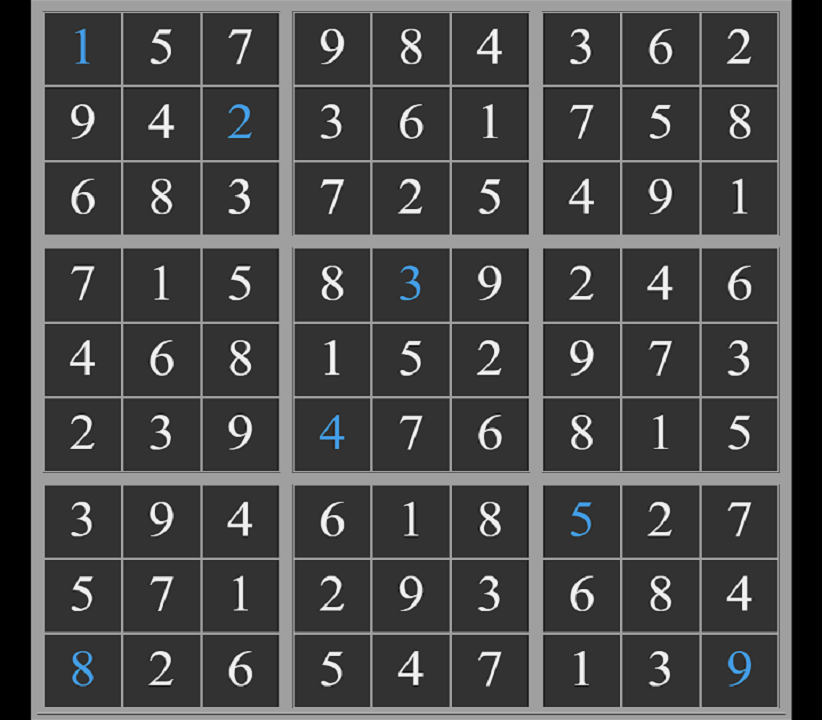
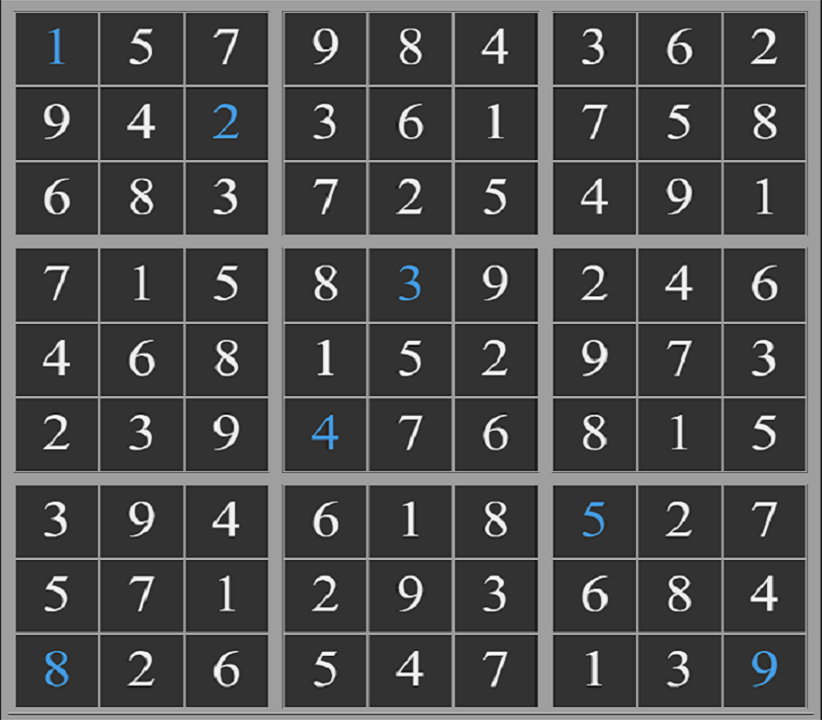
updated grid

diff --git a/index.html b/index.html
@@ -26,53 +26,53 @@
 			<div class="grid_item" tabindex="0">
 				<h1 class="grid_item_title">The Pentagram of Venus</h1>
 				<img class="thumbnail" src="assets/pentagram.png" alt="Responsive image">
-				<button class="button deployButton" type="button"><a href="https://robaina.github.io/VenusPentagram/">Deploy</a></button>
-				<button class="button codeButton" type="button"><a href="https://github.com/Robaina/VenusPentagram">Code</a></button>
+				<button class="button deployButton" type="button"><a class="grid_link" href="https://robaina.github.io/VenusPentagram/">Deploy</a></button>
+				<button class="button codeButton" type="button"><a class="grid_link" href="https://github.com/Robaina/VenusPentagram">Code</a></button>
 			</div>
 			<div class="grid_item" tabindex="0">
 				<h1 class="grid_item_title">Sudoku solver</h1>
 				<img class="thumbnail" src="assets/sudoku.png" alt="Responsive image">
-				<button class="button deployButton" type="button"><a href="https://robaina.github.io/Sudoku/">Deploy</a></button>
-				<button class="button codeButton" type="button"><a href="https://github.com/Robaina/Sudoku">Code</a></button>
+				<button class="button deployButton" type="button"><a class="grid_link" href="https://robaina.github.io/Sudoku/">Deploy</a></button>
+				<button class="button codeButton" type="button"><a class="grid_link" href="https://github.com/Robaina/Sudoku">Code</a></button>
 			</div>
 			<div class="grid_item" tabindex="0">
 				<h1 class="grid_item_title">Metabolic flux orders</h1>
 				<img class="thumbnail" src="assets/fluxorders.png" alt="Responsive image">
-				<button class="button deployButton" type="button"><a href="https://robaina.github.io/fluxOrders/">Deploy</a></button>
-				<button class="button codeButton" type="button"><a href="https://github.com/Robaina/fluxOrders">Code</a></button>
+				<button class="button deployButton" type="button"><a class="grid_link" href="https://robaina.github.io/fluxOrders/">Deploy</a></button>
+				<button class="button codeButton" type="button"><a class="grid_link" href="https://github.com/Robaina/fluxOrders">Code</a></button>
 			</div>
 			<div class="grid_item" tabindex="0">
 				<h1 class="grid_item_title">Ayumu's game</h1>
 				<img class="thumbnail" src="assets/ayumu.png" alt="Responsive image">
-				<button class="button deployButton" type="button"><a href="https://robaina.github.io/AyumuGame/">Deploy</a></button>
-				<button class="button codeButton" type="button"><a href="https://github.com/Robaina/AyumuGame">Code</a></button>
+				<button class="button deployButton" type="button"><a class="grid_link" href="https://robaina.github.io/AyumuGame/">Deploy</a></button>
+				<button class="button codeButton" type="button"><a class="grid_link" href="https://github.com/Robaina/AyumuGame">Code</a></button>
 			</div>
 			<div class="grid_item" tabindex="0">
 				<h1 class="grid_item_title">Simon game</h1>
 				<img class="thumbnail" src="assets/simon.png" alt="Responsive image">
-				<button class="button deployButton" type="button"><a href="https://robaina.github.io/SimonGame/">Deploy</a></button>
-				<button class="button codeButton" type="button"><a href="https://github.com/Robaina/SimonGame">Code</a></button>
+				<button class="button deployButton" type="button"><a class="grid_link" href="https://robaina.github.io/SimonGame/">Deploy</a></button>
+				<button class="button codeButton" type="button"><a class="grid_link" href="https://github.com/Robaina/SimonGame">Code</a></button>
 			</div>
 			<div class="grid_item" tabindex="0">
 				<h1 class="grid_item_title">Colorful N-Mobius</h1>
 				<img class="thumbnail" src="assets/mobiusart.png" alt="Responsive image">
-				<button class="button deployButton" type="button"><a href="https://robaina.github.io/mobiusArt/">Deploy</a></button>
-				<button class="button codeButton" type="button"><a href="https://github.com/Robaina/mobiusArt">Code</a></button>
+				<button class="button deployButton" type="button"><a class="grid_link" href="https://robaina.github.io/mobiusArt/">Deploy</a></button>
+				<button class="button codeButton" type="button"><a class="grid_link" href="https://github.com/Robaina/mobiusArt">Code</a></button>
 			</div>
 			<div class="grid_item" tabindex="0">
 				<h1 class="grid_item_title">Oblate Spheroidal Coordinates</h1>
 				<img class="thumbnail" src="assets/oblatespheroidal.png" alt="Responsive image">
-				<button class="button deployButton" type="button"><a href="https://robaina.github.io/OblateSpheroidal/">Deploy</a></button>
-				<button class="button codeButton" type="button"><a href="https://github.com/Robaina/OblateSpheroidal">Code</a></button>
+				<button class="button deployButton" type="button"><a class="grid_link" href="https://robaina.github.io/OblateSpheroidal/">Deploy</a></button>
+				<button class="button codeButton" type="button"><a class="grid_link" href="https://github.com/Robaina/OblateSpheroidal">Code</a></button>
 			</div>
 			<div class="grid_item" tabindex="0">
 				<h1 class="grid_item_title">Function plotter</h1>
 				<img class="thumbnail" src="assets/functionplotter.png" alt="Responsive image">
-				<button class="button deployButton" type="button"><a href="https://robaina.github.io/functionPlotter/">Deploy</a></button>
-				<button class="button codeButton" type="button"><a href="https://github.com/Robaina/functionPlotter">Code</a></button>
+				<button class="button deployButton" type="button"><a class="grid_link" href="https://robaina.github.io/functionPlotter/">Deploy</a></button>
+				<button class="button codeButton" type="button"><a class="grid_link" href="https://github.com/Robaina/functionPlotter">Code</a></button>
 			</div>
 
 		</div>
-
+  <script src="sketch.js"></script>
 	</body>
 </html>

diff --git a/styles.css b/styles.css
@@ -1,11 +1,13 @@
 body {
   --body_color: rgb(0, 0, 0);
   --fancy_color: rgb(252, 226, 20);
-  --grid_width: 70vw;
-  --grid_item_margin: calc(0.05 * var(--grid_width));
+  --fancy_color_selected: rgb(140, 21, 191);
+  --border_color: rgb(121, 121, 121);
+  --grid_width: 60vw;
+  --grid_item_margin: calc(0.02 * var(--grid_width));
   --grid_item_border_width: calc(0.01 * var(--grid_width));
   --grid_item_width: calc(0.5 * (var(--grid_width) - 4 * (var(--grid_item_border_width) + var(--grid_item_margin))));
-  --fontColor: rgb(251, 251, 251);
+  --font_color: rgb(251, 251, 251);
   background-color: var(--body_color);
   margin: 0;
   padding: 0;
@@ -15,10 +17,11 @@ img {
   max-height: auto;
 }
 h1, p {
-  color: var(--fontColor);
+  color: var(--font_color);
 }
-a {
+.grid_link {
   text-decoration: none;
+  color: var(--font_color);
 }
 .name {
   margin-top: 10vh;
@@ -33,25 +36,24 @@ a {
   width: var(--grid_width);
   margin-right: 0;
   margin-left: calc((100vw - var(--grid_width)) / 2);
-  /* border: var(--grid_border_width) solid var(--fancy_color); */
 }
 .grid_item {
   width: var(--grid_item_width);
   height: auto;
-  border: var(--grid_item_border_width) solid rgb(121, 121, 121);
+  border: var(--grid_item_border_width) solid var(--border_color);
   margin: var(--grid_item_margin);
-  /* display: flex; */
 }
 .grid_item:hover{
-  /* --grid_item_border_width: calc(1.2 * var(--grid_item_border_width)); */
-  border: calc(var(--grid_item_border_width)) solid var(--fancy_color);
+  border: var(--grid_item_border_width) solid var(--fancy_color);
   cursor: pointer;
-
+}
+.grid_item:hover > .button {
+  border-color: var(--fancy_color);
 }
 .grid_item_title {
   text-align: center;
-  font-size: auto;/*calc(0.05 * var(--grid_width));*/
-  max-height: 10%;
+  font-size: calc(0.085 * var(--grid_item_width));
+  max-height: calc(0.15 * var(--grid_item_width));
 }
 .thumbnail {
   width: calc(0.8 * var(--grid_item_width));
@@ -59,19 +61,26 @@ a {
 }
 .button {
   font-size: calc(0.065 * var(--grid_item_width));
+  text-align: center;
+  color: var(--font_color);
   margin-top: calc(0.05 * var(--grid_item_width));
   margin-bottom: calc(0.06 * var(--grid_item_width));
   background-color: var(--body_color);
-  border-color: var(--fancy_color);
+  border-color: var(--border_color);
+  width: calc(0.3 * var(--grid_item_width));
 }
 .button:hover {
   background-color: var(--fancy_color);
+  color: rgb(0, 0, 0);
+}
+.button:hover > .grid_link {
+  color: var(--fancy_color_selected);
 }
 .deployButton {
   margin-left: calc(0.1 * var(--grid_item_width));
 }
 .codeButton {
-  margin-left: calc(0.35 * var(--grid_item_width));
+  margin-left: calc(0.2 * var(--grid_item_width));
 }
 
 ::-webkit-scrollbar {

diff --git a/sketch.js b/sketch.js
@@ -1,0 +1,2 @@
+let size = getComputedStyle(document.body).getPropertyValue("--grid_item_width");
+console.log(size);
